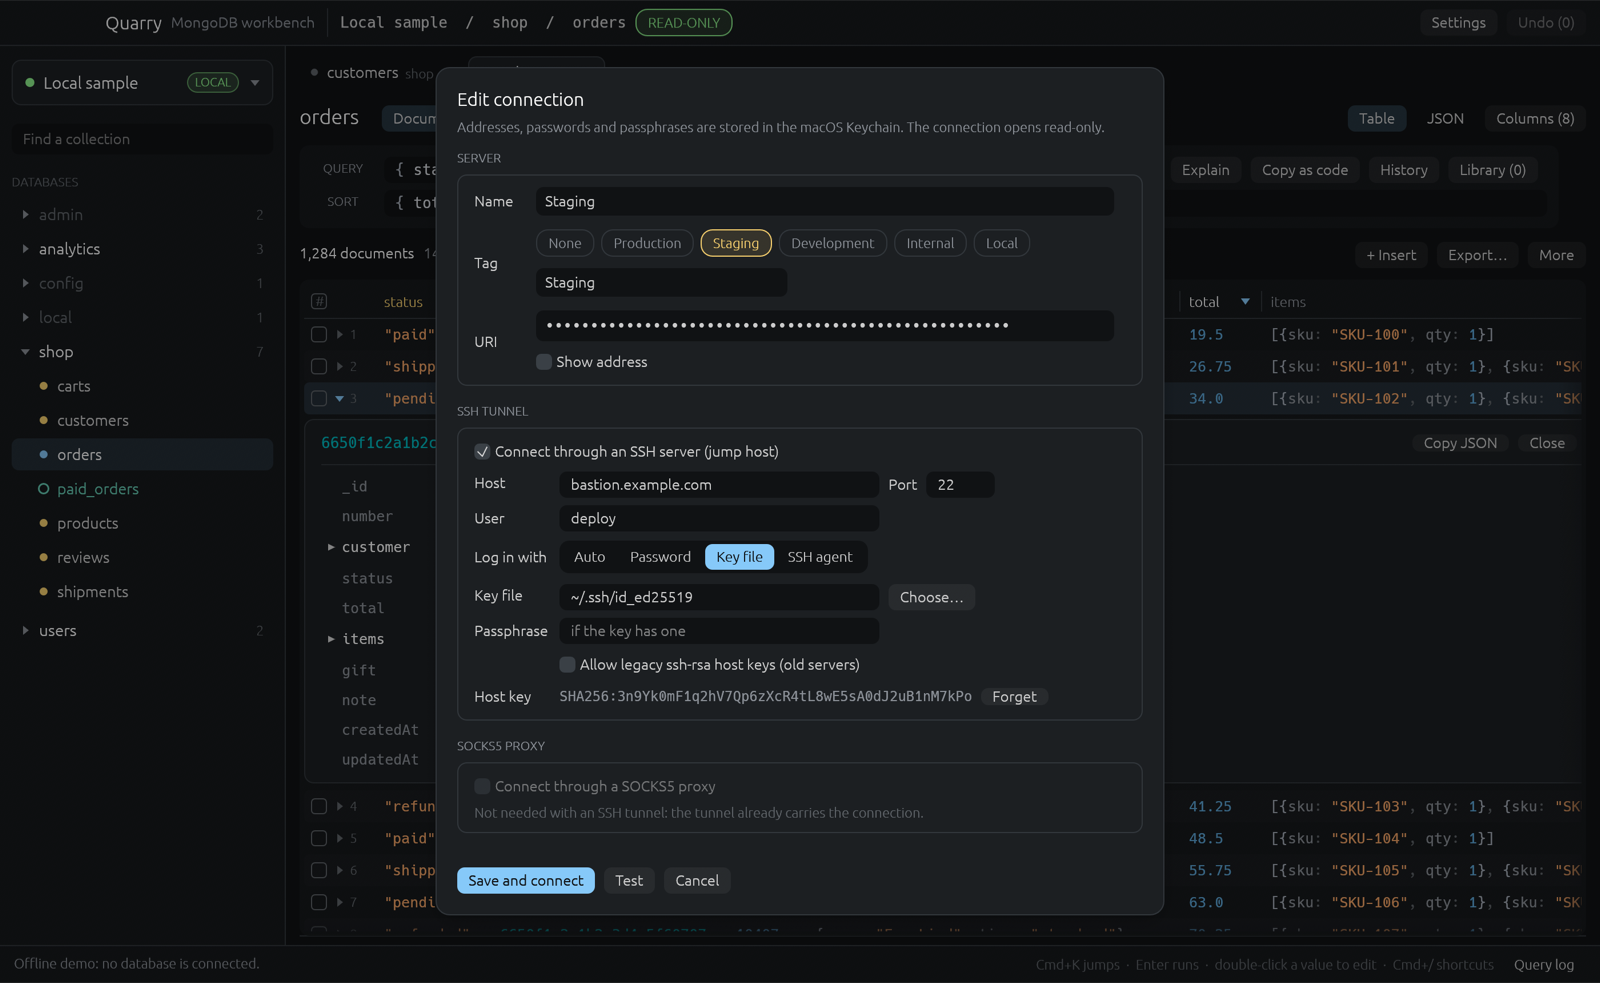
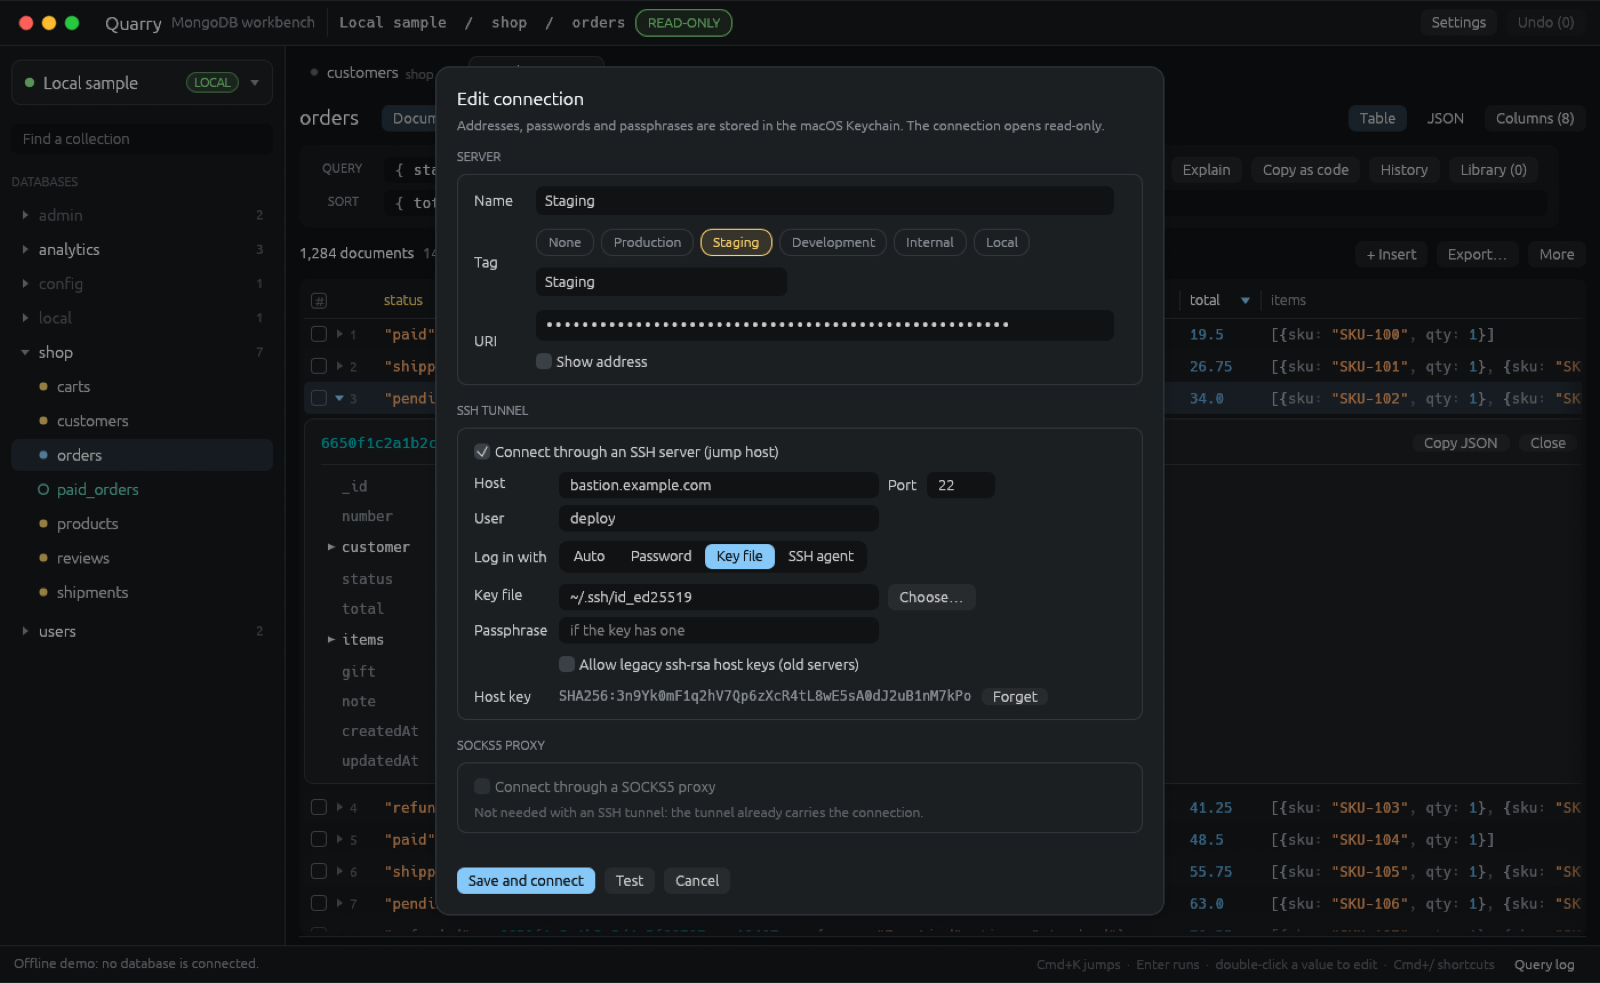
docs: show the query log and window buttons in the README screenshots
The demo fills the query log with a few commands, one of them failed,
and QUARRY_TEST_LOG docks it for the main picture. Screenshot mode
paints the macOS window buttons, which AppKit draws outside the
captured frame.

diff --git a/src/app.rs b/src/app.rs
@@ -3800,6 +3800,19 @@ impl App {
         self.tabs.push(t);
         self.tabs.push(Tab::new(sel("analytics", "events")));
         self.cur = 1;
+        if let Ok(mut log) = db::LOG.lock() {
+            let q = r#"{ "status": { "$in": ["paid", "shipped", "pending"] } }"#;
+            log.extend([
+                db::LogEntry::finished(1, 340, "admin", "listDatabases", r#"{ "listDatabases": 1, "nameOnly": true }"#, 4, None),
+                db::LogEntry::finished(1, 338, "shop", "listCollections", r#"{ "listCollections": 1, "nameOnly": true }"#, 3, None),
+                db::LogEntry::finished(1, 212, "shop", "aggregate", r#"{ "aggregate": "orders", "pipeline": [{ "$match": { "status": { "$in": ["paid", "shipped"] } } }, { "$group": { "_id": "$customer.tier", "orders": { "$sum": 1 }, "revenue": { "$sum": "$total" } } }] }"#, 31, None),
+                db::LogEntry::finished(1, 95, "shop", "insert", r#"{ "insert": "orders", "documents": [{ "_id": { "$oid": "6650f1c2a1b2c3d4e5f60702" }, "number": 10402 }] }"#, 6, Some("E11000 duplicate key error collection: shop.orders index: _id_ dup key")),
+                db::LogEntry::finished(1, 41, "shop", "count", &format!(r#"{{ "count": "orders", "query": {q} }}"#), 9, None),
+                db::LogEntry::finished(1, 40, "shop", "find", &format!(r#"{{ "find": "orders", "filter": {q}, "sort": {{ "total": -1 }}, "limit": 50 }}"#), 14, None),
+            ]);
+        }
+        // QUARRY_TEST_LOG docks the query log under the documents, as in the README's main picture.
+        self.log.open = std::env::var("QUARRY_TEST_LOG").is_ok();
         let key = self.col_key(false);
         self.prefs.cols.insert(key, ColPrefs { pinned: vec!["status".into()], highlight: vec!["customer.name".into()], ..Default::default() });
         self.status = ("Offline demo: no database is connected.".into(), false);
@@ -4928,6 +4941,14 @@ impl App {
 
     fn screenshot(&mut self, ctx: &egui::Context) {
         let Some((path, frames, slot)) = &mut self.shot else { return };
+        // AppKit draws the window buttons outside our frame, so the capture would lack them.
+        // Stand-ins go where set_traffic_lights_position puts the real ones.
+        if cfg!(target_os = "macos") {
+            let p = ctx.layer_painter(egui::LayerId::new(egui::Order::Foreground, egui::Id::unique("shot-window-buttons")));
+            for (i, c) in [Color32::from_rgb(0xFF, 0x5F, 0x57), Color32::from_rgb(0xFE, 0xBC, 0x2E), Color32::from_rgb(0x28, 0xC8, 0x40)].into_iter().enumerate() {
+                p.circle(egui::pos2(23.0 + 20.0 * i as f32, HEADER_H / 2.0), 6.0, c, Stroke::new(0.5, Color32::from_black_alpha(50)));
+            }
+        }
         *frames += 1;
         ctx.request_repaint();
         if *frames == 120 {

diff --git a/src/db.rs b/src/db.rs
@@ -1274,6 +1274,14 @@ pub struct LogEntry {
     req: i32,
 }
 
+impl LogEntry {
+    /// A finished command, for the offline demo.
+    pub fn finished(conn: u64, secs_ago: u64, db: &str, name: &str, cmd: &str, ms: u128, err: Option<&str>) -> Self {
+        let at = std::time::SystemTime::now() - std::time::Duration::from_secs(secs_ago);
+        LogEntry { conn, at, db: db.into(), name: name.into(), cmd: cmd.into(), ms: Some(ms), err: err.map(Into::into), req: 0 }
+    }
+}
+
 pub const LOG_MAX: usize = 2000;
 
 // ponytail: one process-wide log, clients of every connection write here; keyed by conn id.
